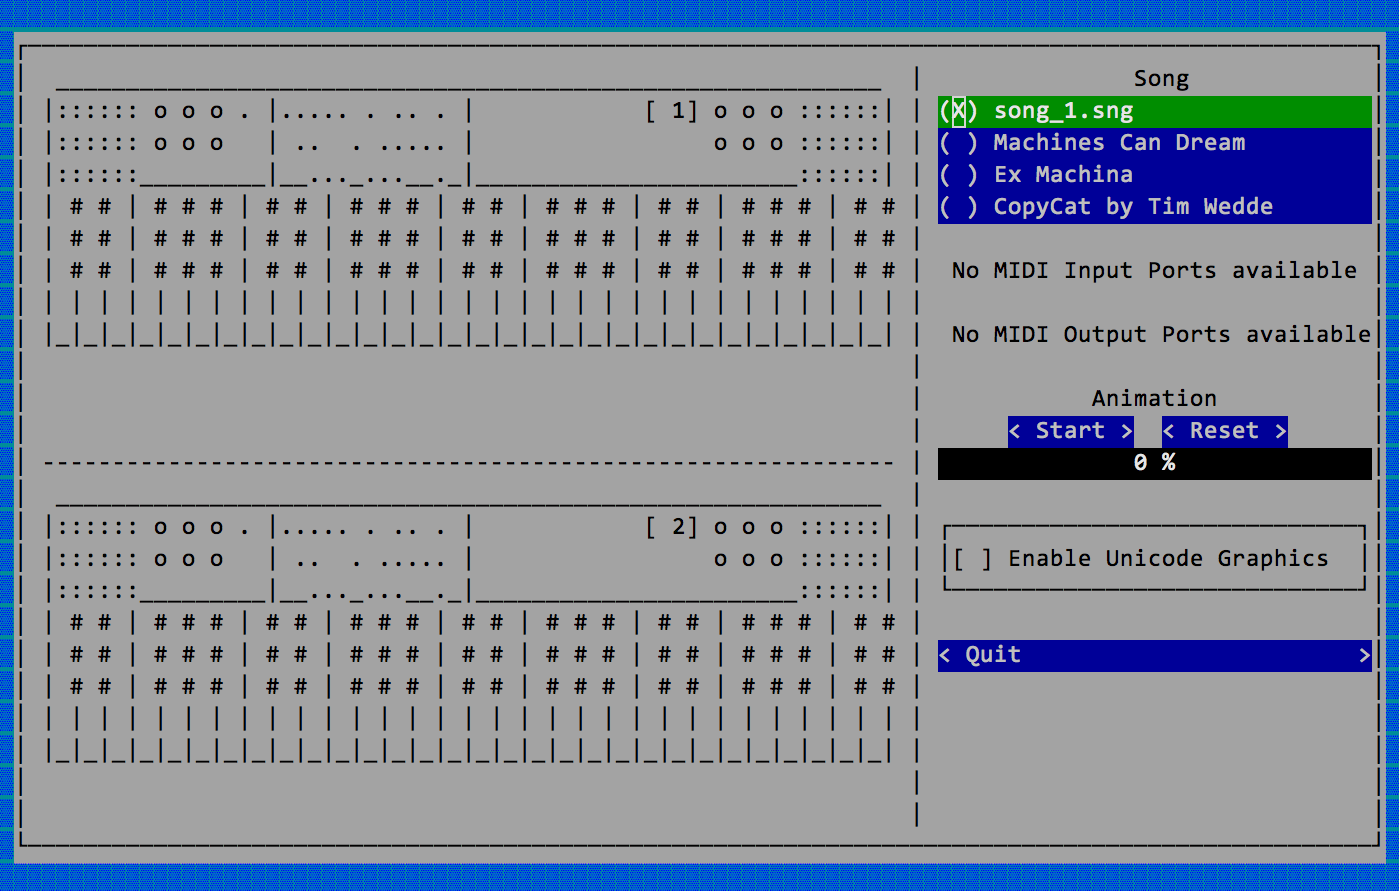
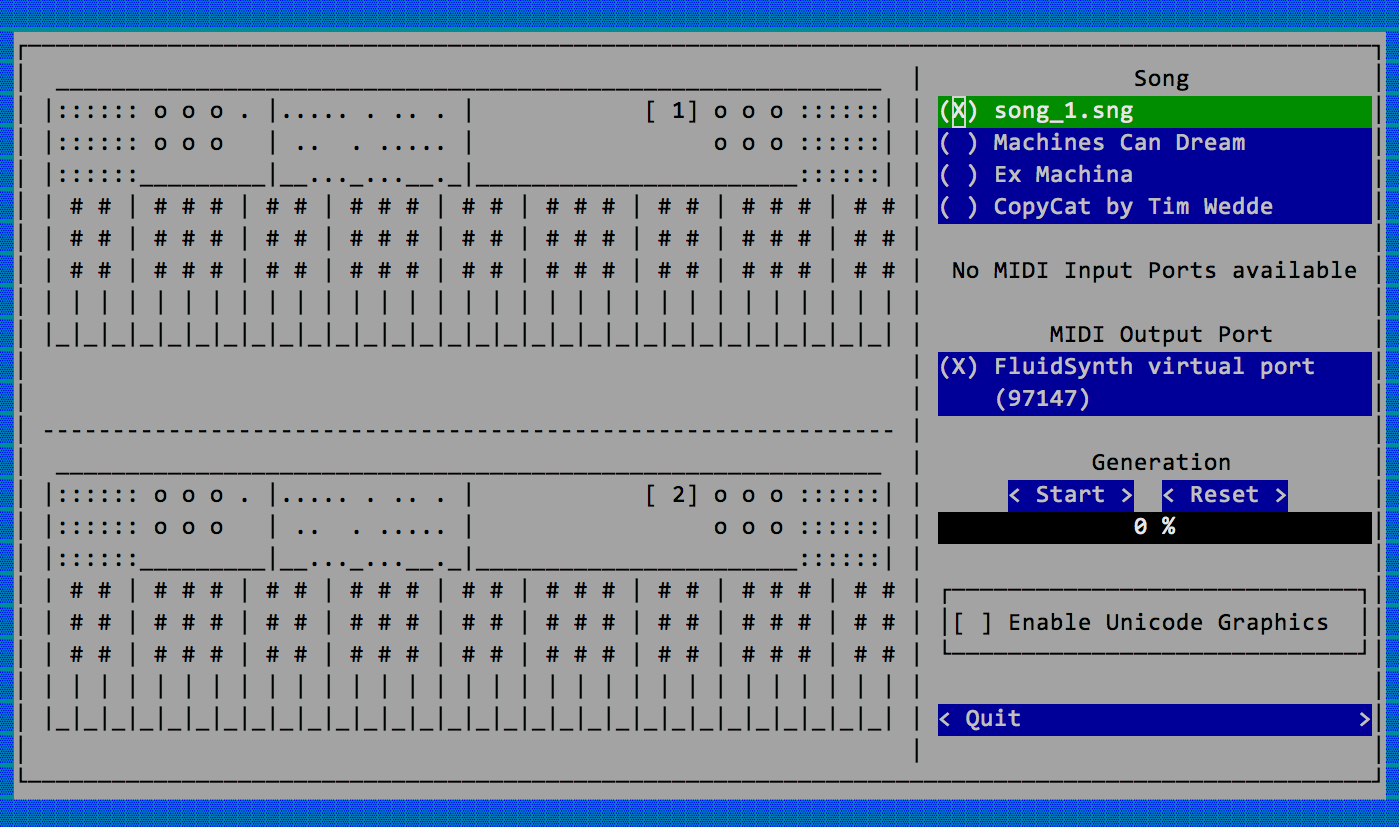
Update screenshot

Changed region(s): [[0.0, 0.0, 1.0, 0.9976], [0.2766, 0.1511, 0.3074, 0.1814]]

diff --git a/ui/terminal_gui.py b/ui/terminal_gui.py
@@ -244,7 +244,7 @@ class TerminalGUI(urwid.WidgetWrap):
             ([urwid.Divider()] + ipb if ipb else []) + \
             ([urwid.Divider()] + opb if opb else []) + \
             [urwid.Divider(),
-             urwid.Text("Animation", align="center"),
+             urwid.Text("Generation", align="center"),
              animate_controls,
              self.animate_progress_wrap,
              urwid.Divider(),
